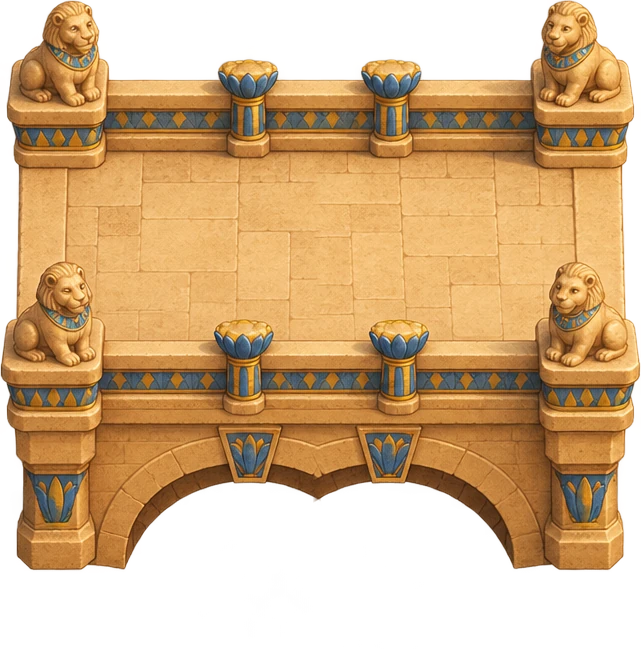
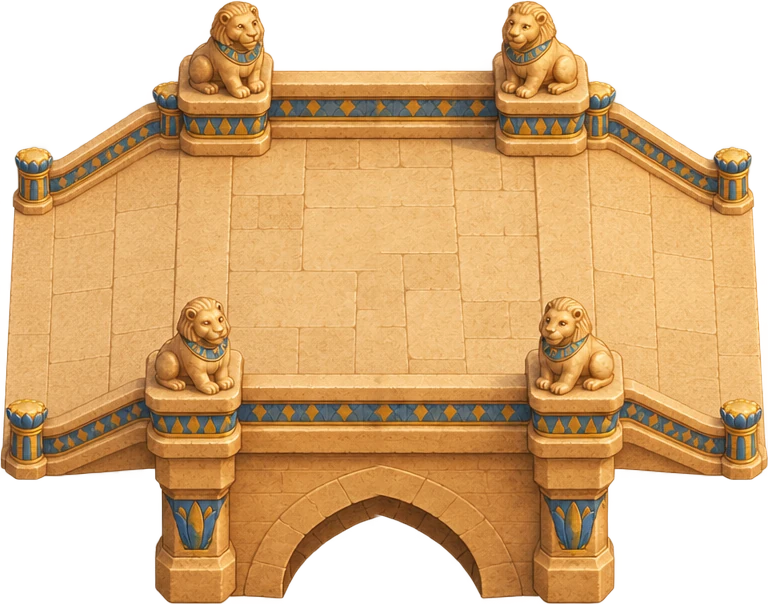
Lenda do Campinho v290: pontes com rampa (sem degrau)
- Cairo, Tóquio e Munique: arte nova com rampas curtas nas pontas; o piso
  desce até a rua, sem degrau, e os parapeitos baixam junto
- Quem anda na ponte SOBE com ela (o personagem acompanha a altura da rampa)
- Encaixe: topo plano centrado no rio, pontas no nível da rua; a limpeza das
  cabeceiras cobre a área das rampas

diff --git a/frontend/public/lenda-do-campinho/index.html b/frontend/public/lenda-do-campinho/index.html
@@ -11,8 +11,8 @@
 <link rel="preconnect" href="https://fonts.googleapis.com">
 <link rel="preconnect" href="https://fonts.gstatic.com" crossorigin>
 <link href="https://fonts.googleapis.com/css2?family=Fredoka:wght@500;600;700&family=Nunito:wght@600;700;800&display=swap" rel="stylesheet">
-<link rel="stylesheet" href="css/style.css?v=289">
-<link rel="stylesheet" href="css/inicio.css?v=289">
+<link rel="stylesheet" href="css/style.css?v=290">
+<link rel="stylesheet" href="css/inicio.css?v=290">
 <link rel="icon" href="https://www.educacaogamer.com.br/favicon.png">
 <link rel="manifest" href="manifest.webmanifest">
 <link rel="apple-touch-icon" href="a/icone_192.png">
@@ -155,101 +155,101 @@
   </div>
 </div>
 
-<script src="js/confirma.js?v=289"></script>
-<script src="js/data.js?v=289"></script>
-<script src="js/arte.js?v=289"></script>
-<script src="js/assets.js?v=289"></script>
-<script src="js/world.js?v=289"></script>
-<script src="js/game.js?v=289"></script>
-<script src="js/roupas.js?v=289"></script>
-<script src="js/europa.js?v=289"></script>
-<script src="js/cidades.js?v=289"></script>
-<script src="js/santos_mapa.js?v=289"></script>
-<script src="js/espalha.js?v=289"></script>
-<script src="js/centrinho.js?v=289"></script>
-<script src="js/team.js?v=289"></script>
-<script src="js/copa.js?v=289"></script>
-<script src="js/carreira.js?v=289"></script>
-<script src="js/historia.js?v=289"></script>
-<script src="js/ui.js?v=289"></script>
-<script src="js/penalti.js?v=289"></script>
-<script src="js/bonecos_meta.js?v=289"></script>
-<script src="js/boneco.js?v=289"></script>
-<script src="js/clima.js?v=289"></script>
-<script src="js/itens.js?v=289"></script>
-<script src="js/layout.js?v=289"></script>
-<script src="js/backup.js?v=289"></script>
-<script src="js/minimapa.js?v=289"></script>
-<script src="js/audio.js?v=289"></script>
-<script src="js/jogadas.js?v=289"></script>
-<script src="js/arenas.js?v=289"></script>
-<script src="js/montarias.js?v=289"></script>
-<script src="js/armazem.js?v=289"></script>
-<script src="js/casas.js?v=289"></script>
-<script src="js/celular.js?v=289"></script>
-<script src="js/celular2.js?v=289"></script>
-<script src="js/beta.js?v=289"></script>
-<script src="js/portal.js?v=289"></script>
-<script src="js/nuvem.js?v=289"></script>
-<script src="js/contas.js?v=289"></script><script src="js/sessao_unica.js?v=289"></script>
-<script src="js/protege.js?v=289"></script>
-<script src="js/topo.js?v=289"></script>
-<script src="js/sair.js?v=289"></script>
-<script src="js/lances.js?v=289"></script>
-<script src="js/vocacoes.js?v=289"></script>
-<script src="js/tela.js?v=289"></script>
-<script src="js/agua.js?v=289"></script>
-<script src="js/vento.js?v=289"></script>
-<script src="js/wiki.js?v=289"></script>
-<script src="js/personagens.js?v=289"></script>
-<script src="js/teclas.js?v=289"></script>
-<script src="js/variedade.js?v=289"></script>
-<script src="js/bonecos_meta2.js?v=289"></script>
-<script src="js/bonecos_meta3.js?v=289"></script>
-<script src="js/bonecos_meta4.js?v=289"></script>
-<script src="js/corpos.js?v=289"></script>
-<script src="js/fx.js?v=289"></script>
-<script src="js/cacadas.js?v=289"></script>
-<script src="js/atlantida.js?v=289"></script>
-<script src="js/espaco.js?v=289"></script>
-<script src="js/vale.js?v=289"></script>
-<script src="js/treino.js?v=289"></script>
-<script src="js/cadastro.js?v=289"></script>
-<script src="js/montaria_arte.js?v=289"></script>
-<script src="js/luxo.js?v=289"></script>
-<script src="js/divulgar.js?v=289"></script>
-<script src="js/corrida.js?v=289"></script><script src="js/estadios.js?v=289"></script><script src="js/monumentos.js?v=289"></script><script src="js/ruas.js?v=289"></script><script src="js/ambiente.js?v=289"></script><script src="js/conquistas.js?v=289"></script><script src="js/rastreador.js?v=289"></script><script src="js/alertas.js?v=289"></script><script src="js/ondeachar.js?v=289"></script><script src="js/time_guia.js?v=289"></script><script src="js/jogadas_info.js?v=289"></script><script src="js/dribles_nivel.js?v=289"></script><script src="js/pocoes.js?v=289"></script><script src="js/analisador.js?v=289"></script><script src="js/tarefas.js?v=289"></script><script src="js/diaria.js?v=289"></script><script src="js/avisos.js?v=289"></script><script src="js/saida_trancada.js?v=289"></script><script src="js/cidade_arrumada.js?v=289"></script><script src="js/partida.js?v=289"></script><script src="js/centros_treino.js?v=289"></script><script src="js/grade.js?v=289"></script><script src="js/zona_segura.js?v=289"></script><script src="js/minha_classe.js?v=289"></script>
-<script src="js/app_windows.js?v=289"></script>
-<script src="js/inicio.js?v=289"></script>
-<script src="js/gravacao.js?v=289"></script>
-<script src="js/massagistas.js?v=289"></script>
-<script src="js/arquibancadas.js?v=289"></script>
-<script src="js/asas.js?v=289"></script>
-<script src="js/carreira_metas.js?v=289"></script>
-<script src="js/arquetipos.js?v=289"></script>
-<script src="js/magias_adv.js?v=289"></script>
-<script src="js/santos.js?v=289"></script>
-<script src="js/arcos.js?v=289"></script>
-<script src="js/luz.js?v=289"></script>
-<script src="js/clube_mais.js?v=289"></script>
-<script src="js/compacto.js?v=289"></script>
-<script src="js/ajustes_ui.js?v=289"></script>
-<script src="js/volta_v258.js?v=289"></script>
-<script src="js/cidades_vivas.js?v=289"></script>
-<script src="js/cidades_novas.js?v=289"></script>
-<script src="js/dungeons_novas.js?v=289"></script>
-<script src="js/vila_nova.js?v=289"></script>
-<script src="js/brasil_vivo.js?v=289"></script>
-<script src="js/armazem_forja.js?v=289"></script>
-<script src="js/tarefas_loja.js?v=289"></script>
-<script src="js/carreira_jogos.js?v=289"></script>
-<script src="js/carreira_futebol.js?v=289"></script>
-<script src="js/lendas.js?v=289"></script>
-<script src="js/mapa_marca.js?v=289"></script>
-<script src="js/missoes_colecao.js?v=289"></script>
-<script src="js/espaco_novo.js?v=289"></script>
-<script src="js/pontes.js?v=289"></script>
-<script src="js/celular3.js?v=289"></script>
-<script src="js/graficos.js?v=289"></script>
+<script src="js/confirma.js?v=290"></script>
+<script src="js/data.js?v=290"></script>
+<script src="js/arte.js?v=290"></script>
+<script src="js/assets.js?v=290"></script>
+<script src="js/world.js?v=290"></script>
+<script src="js/game.js?v=290"></script>
+<script src="js/roupas.js?v=290"></script>
+<script src="js/europa.js?v=290"></script>
+<script src="js/cidades.js?v=290"></script>
+<script src="js/santos_mapa.js?v=290"></script>
+<script src="js/espalha.js?v=290"></script>
+<script src="js/centrinho.js?v=290"></script>
+<script src="js/team.js?v=290"></script>
+<script src="js/copa.js?v=290"></script>
+<script src="js/carreira.js?v=290"></script>
+<script src="js/historia.js?v=290"></script>
+<script src="js/ui.js?v=290"></script>
+<script src="js/penalti.js?v=290"></script>
+<script src="js/bonecos_meta.js?v=290"></script>
+<script src="js/boneco.js?v=290"></script>
+<script src="js/clima.js?v=290"></script>
+<script src="js/itens.js?v=290"></script>
+<script src="js/layout.js?v=290"></script>
+<script src="js/backup.js?v=290"></script>
+<script src="js/minimapa.js?v=290"></script>
+<script src="js/audio.js?v=290"></script>
+<script src="js/jogadas.js?v=290"></script>
+<script src="js/arenas.js?v=290"></script>
+<script src="js/montarias.js?v=290"></script>
+<script src="js/armazem.js?v=290"></script>
+<script src="js/casas.js?v=290"></script>
+<script src="js/celular.js?v=290"></script>
+<script src="js/celular2.js?v=290"></script>
+<script src="js/beta.js?v=290"></script>
+<script src="js/portal.js?v=290"></script>
+<script src="js/nuvem.js?v=290"></script>
+<script src="js/contas.js?v=290"></script><script src="js/sessao_unica.js?v=290"></script>
+<script src="js/protege.js?v=290"></script>
+<script src="js/topo.js?v=290"></script>
+<script src="js/sair.js?v=290"></script>
+<script src="js/lances.js?v=290"></script>
+<script src="js/vocacoes.js?v=290"></script>
+<script src="js/tela.js?v=290"></script>
+<script src="js/agua.js?v=290"></script>
+<script src="js/vento.js?v=290"></script>
+<script src="js/wiki.js?v=290"></script>
+<script src="js/personagens.js?v=290"></script>
+<script src="js/teclas.js?v=290"></script>
+<script src="js/variedade.js?v=290"></script>
+<script src="js/bonecos_meta2.js?v=290"></script>
+<script src="js/bonecos_meta3.js?v=290"></script>
+<script src="js/bonecos_meta4.js?v=290"></script>
+<script src="js/corpos.js?v=290"></script>
+<script src="js/fx.js?v=290"></script>
+<script src="js/cacadas.js?v=290"></script>
+<script src="js/atlantida.js?v=290"></script>
+<script src="js/espaco.js?v=290"></script>
+<script src="js/vale.js?v=290"></script>
+<script src="js/treino.js?v=290"></script>
+<script src="js/cadastro.js?v=290"></script>
+<script src="js/montaria_arte.js?v=290"></script>
+<script src="js/luxo.js?v=290"></script>
+<script src="js/divulgar.js?v=290"></script>
+<script src="js/corrida.js?v=290"></script><script src="js/estadios.js?v=290"></script><script src="js/monumentos.js?v=290"></script><script src="js/ruas.js?v=290"></script><script src="js/ambiente.js?v=290"></script><script src="js/conquistas.js?v=290"></script><script src="js/rastreador.js?v=290"></script><script src="js/alertas.js?v=290"></script><script src="js/ondeachar.js?v=290"></script><script src="js/time_guia.js?v=290"></script><script src="js/jogadas_info.js?v=290"></script><script src="js/dribles_nivel.js?v=290"></script><script src="js/pocoes.js?v=290"></script><script src="js/analisador.js?v=290"></script><script src="js/tarefas.js?v=290"></script><script src="js/diaria.js?v=290"></script><script src="js/avisos.js?v=290"></script><script src="js/saida_trancada.js?v=290"></script><script src="js/cidade_arrumada.js?v=290"></script><script src="js/partida.js?v=290"></script><script src="js/centros_treino.js?v=290"></script><script src="js/grade.js?v=290"></script><script src="js/zona_segura.js?v=290"></script><script src="js/minha_classe.js?v=290"></script>
+<script src="js/app_windows.js?v=290"></script>
+<script src="js/inicio.js?v=290"></script>
+<script src="js/gravacao.js?v=290"></script>
+<script src="js/massagistas.js?v=290"></script>
+<script src="js/arquibancadas.js?v=290"></script>
+<script src="js/asas.js?v=290"></script>
+<script src="js/carreira_metas.js?v=290"></script>
+<script src="js/arquetipos.js?v=290"></script>
+<script src="js/magias_adv.js?v=290"></script>
+<script src="js/santos.js?v=290"></script>
+<script src="js/arcos.js?v=290"></script>
+<script src="js/luz.js?v=290"></script>
+<script src="js/clube_mais.js?v=290"></script>
+<script src="js/compacto.js?v=290"></script>
+<script src="js/ajustes_ui.js?v=290"></script>
+<script src="js/volta_v258.js?v=290"></script>
+<script src="js/cidades_vivas.js?v=290"></script>
+<script src="js/cidades_novas.js?v=290"></script>
+<script src="js/dungeons_novas.js?v=290"></script>
+<script src="js/vila_nova.js?v=290"></script>
+<script src="js/brasil_vivo.js?v=290"></script>
+<script src="js/armazem_forja.js?v=290"></script>
+<script src="js/tarefas_loja.js?v=290"></script>
+<script src="js/carreira_jogos.js?v=290"></script>
+<script src="js/carreira_futebol.js?v=290"></script>
+<script src="js/lendas.js?v=290"></script>
+<script src="js/mapa_marca.js?v=290"></script>
+<script src="js/missoes_colecao.js?v=290"></script>
+<script src="js/espaco_novo.js?v=290"></script>
+<script src="js/pontes.js?v=290"></script>
+<script src="js/celular3.js?v=290"></script>
+<script src="js/graficos.js?v=290"></script>
 </body>
 </html>

diff --git a/frontend/public/lenda-do-campinho/js/pontes.js b/frontend/public/lenda-do-campinho/js/pontes.js
@@ -4,17 +4,21 @@
    🌉 PONTES (v289): as ruas que atravessam rios ganham uma PONTE de verdade, no estilo de cada cidade:
    Cairo (arenito com leões, no Nilo), Tóquio (madeira vermelha), Munique (pedra com floreiras, no Isar),
    Paris (lampiões dourados, no Sena) e Londres (grades azuis, no Tâmisa).
+   v290: as pontes que cruzam o rio de lado (Cairo, Tóquio, Munique) ganharam RAMPAS: o piso sobe da rua até o
+   topo (sem degrau) e quem anda por ela SOBE junto (o desenho do personagem acompanha a altura da rampa).
    A ponte é pintada no CHÃO (os personagens andam por cima dela, como numa rua); os parapeitos e os
    arcos ficam sobre a água, que já não deixa passar. As pontes são achadas sozinhas: rua de asfalto
    com água dos dois lados.
    Carregar NO FIM.
    ============================================================ */
 {
-  // o tabuleiro (a parte onde se anda) de cada arte: fração da imagem [início, fim]
+  // pontes com rampa (h): et/eb = piso nas pontas (nível da rua), ct/cb = piso no topo, fa/fb = onde o topo plano começa/termina,
+  // ev = quanto o topo fica acima das pontas, ar = largura/altura da arte (tudo em fração da imagem)
+  // pontes retas (v): o tabuleiro (a parte onde se anda) de cada arte: fração da imagem [início, fim]
   const PONTE_ARTE = {
-    cairo: { spr: 'ponte_cairo', eixo: 'h', fx: [0.157, 0.843], fy: [0.22, 0.56] },
-    toquio: { spr: 'ponte_toquio', eixo: 'h', fx: [0.1516, 0.8484], fy: [0.25, 0.58] },
-    munique: { spr: 'ponte_munique', eixo: 'h', fx: [0.0941, 0.9059], fy: [0.26, 0.57] },
+    cairo: { spr: 'ponte_cairo', eixo: 'h', rampa: true, et: 0.33, eb: 0.72, ct: 0.22, cb: 0.62, fa: 0.2, fb: 0.8, ev: 0.105, ar: 1.2715 },
+    toquio: { spr: 'ponte_toquio', eixo: 'h', rampa: true, et: 0.3, eb: 0.58, ct: 0.2, cb: 0.62, fa: 0.2379, fb: 0.7621, ev: 0.03, ar: 1.3897 },
+    munique: { spr: 'ponte_munique', eixo: 'h', rampa: true, et: 0.29, eb: 0.69, ct: 0.22, cb: 0.6, fa: 0.238, fb: 0.762, ev: 0.08, ar: 1.2436 },
     paris: { spr: 'ponte_paris', eixo: 'v', fx: [0.21, 0.79], fy: [0, 1] },
     londres: { spr: 'ponte_londres', eixo: 'v', fx: [0.225, 0.82], fy: [0, 1] },
   };
@@ -42,6 +46,11 @@
   // onde a arte vai (em quadros): o tabuleiro cobre a rua sobre o rio + 1 quadro de margem (h) / o cais dos dois lados (v)
   function encaixa(p, d) {
     const im = aSprite(d.spr); if (!im) return null;
+    if (d.rampa) { // escala pelo topo (= largura da rua); o meio das pontas no meio da rua; o topo plano centrado no rio
+      const s = (p.y1 - p.y0 + 1) * T / ((d.cb - d.ct) * im.height), w = im.width * s, h = im.height * s;
+      const x = (p.x0 + p.x1 + 1) / 2 * T - (d.fa + d.fb) / 2 * w, y = (p.y0 + p.y1 + 1) / 2 * T - (d.et + d.eb) / 2 * h;
+      return { im, x, y, w, h, rampa: true, fa: d.fa, fb: d.fb, E: d.ev * h, y0: p.y0, y1: p.y1 };
+    }
     const alvo = p.eixo === 'h' ? { x: p.x0 - 1, y: p.y0, w: p.x1 - p.x0 + 3, h: p.y1 - p.y0 + 1 } : { x: p.x0, y: p.y0 - 2, w: p.x1 - p.x0 + 1, h: p.y1 - p.y0 + 5 };
     const sx = alvo.w * T / ((d.fx[1] - d.fx[0]) * im.width), sy = alvo.h * T / ((d.fy[1] - d.fy[0]) * im.height);
     return { im, x: alvo.x * T - d.fx[0] * im.width * sx, y: alvo.y * T - d.fy[0] * im.height * sy, w: im.width * sx, h: im.height * sy };
@@ -49,14 +58,16 @@
   // as cabeceiras da ponte ficam livres: enfeite em cima sai, placa vai um pouco para o lado
   function limpaCabeceiras(m, p) {
     const W = m.w, fixo = new Set(['placa', 'x', 'gol', 'grafite', 'grade']);
-    const fileiras = p.eixo === 'h' ? [p.y0 - 2, p.y0 - 1, p.y1 + 1, p.y1 + 2] : [];
-    for (const y of fileiras) for (let x = p.x0 - 3; x <= p.x1 + 3; x++) {
+    const d = PONTE_ARTE[p.arte], meio = (p.x0 + p.x1 + 1) / 2, larg = d.rampa ? d.ar * (p.y1 - p.y0 + 1) / (d.cb - d.ct) / 2 + 0.5 : 0;
+    const xa = d.rampa ? Math.floor(meio - larg) : p.x0 - 3, xb = d.rampa ? Math.ceil(meio + larg) : p.x1 + 3;
+    const fileiras = p.eixo !== 'h' ? [] : d.rampa ? [p.y0 - 4, p.y0 - 3, p.y0 - 2, p.y0 - 1, p.y0, p.y0 + 1, p.y0 + 2, p.y0 + 3, p.y1 + 1, p.y1 + 2, p.y1 + 3] : [p.y0 - 2, p.y0 - 1, p.y1 + 1, p.y1 + 2];
+    for (const y of fileiras) for (let x = xa; x <= xb; x++) {
       const i = y * W + x, o = m.obj[i]; if (!o || o.predio || m.chao[i] === CH.AGUA) continue;
       if (!fixo.has(o.t)) { m.obj[i] = null; continue; }
       if (o.t !== 'placa') continue;
       const pl = (m.placas || []).find(k => k.x === x && k.y === y); const lado = x < (p.x0 + p.x1) / 2 ? -1 : 1;
       for (let d = 1; d < 6; d++) {
-        const nx = (lado < 0 ? p.x0 - 3 : p.x1 + 3) + lado * d, j = y * W + nx;
+        const nx = (lado < 0 ? xa : xb) + lado * d, j = y * W + nx;
         if (nx < 2 || nx >= W - 2 || m.obj[j] || m.chao[j] === CH.AGUA || m.saidas.some(s => s.x === nx && s.y === y) || m.npcs.some(n => n.x === nx && n.y === y)) continue;
         m.obj[j] = o; m.obj[i] = null; if (pl) pl.x = nx; break;
       }
@@ -94,6 +105,26 @@
       return r;
     };
   }
+  // quem anda na rampa SOBE: o personagem é desenhado mais alto, conforme a altura da ponte ali
+  function alturaPonte(e) {
+    const m = G.mapa; if (!m || !m._pontesDes || !e) return 0;
+    for (const r of m._pontesDes) {
+      if (!r.rampa || e.y < r.y0 || e.y > r.y1 + 1) continue;
+      const u = (e.x * T - r.x) / r.w; if (u <= 0 || u >= 1) continue;
+      const k = u < r.fa ? u / r.fa : u > r.fb ? (1 - u) / (1 - r.fb) : 1;
+      return Math.max(0, Math.min(1, k)) * r.E;
+    }
+    return 0;
+  }
+  window.alturaPonte = alturaPonte;
+  if (typeof desenhaEnt === 'function') {
+    const _entPonte = desenhaEnt;
+    desenhaEnt = function (ctx, e) {
+      const h = alturaPonte(e); if (h < 0.5) return _entPonte.apply(this, arguments);
+      ctx.save(); ctx.translate(0, -h); try { return _entPonte.apply(this, arguments); } finally { ctx.restore(); }
+    };
+  }
+  if (typeof alturaEnt === 'function') { const _altPonte = alturaEnt; alturaEnt = function (e) { return _altPonte.apply(this, arguments) + alturaPonte(e) / T; }; }
   // o brilho da água não passa por cima da ponte
   if (typeof drawAguaBrilho === 'function') {
     const _brilhoPonte = drawAguaBrilho;
